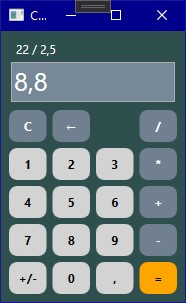
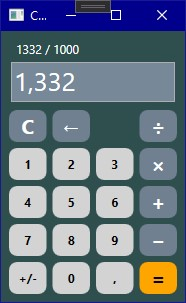
Enchance visual, add screen

diff --git a/TWCalculator/Views/MainWindow.xaml b/TWCalculator/Views/MainWindow.xaml
@@ -15,8 +15,8 @@
         MaxHeight="310"
         Background="DarkSlateGray">
     
-    <Window.Resources> <!-->Adopted solution</!-->
-        <Style x:Key="RoundCorner1" TargetType="{x:Type Button}">
+    <Window.Resources> <!-- Adopted solution -->
+        <Style x:Key="RoundCorner1" TargetType="{x:Type Button}"> <!-- Digits -->
             <Setter Property="HorizontalContentAlignment" Value="Center"/>
             <Setter Property="VerticalContentAlignment" Value="Center"/>
             <Setter Property="Padding" Value="1"/>
@@ -71,13 +71,15 @@
                 </Setter.Value>
             </Setter>
         </Style>
-        <Style x:Key="RoundCorner0" TargetType="{x:Type Button}">
+        <Style x:Key="RoundCorner0" TargetType="{x:Type Button}"> <!-- Operations -->
             <Setter Property="HorizontalContentAlignment" Value="Center"/>
             <Setter Property="VerticalContentAlignment" Value="Center"/>
             <Setter Property="Padding" Value="1"/>
             <Setter Property="Foreground" Value="White"/>
             <Setter Property="Height" Value="32"/>
             <Setter Property="Margin" Value="3,3,3,3"/>
+            <Setter Property="FontSize" Value="20"/>
+            <Setter Property="FontWeight" Value="ExtraBold"/>
             <Setter Property="Template">
                 <Setter.Value>
                     <ControlTemplate TargetType="{x:Type Button}">
@@ -132,9 +134,11 @@
             <Setter Property="Padding" Value="1"/>
             <Setter Property="Height" Value="32"/>
             <Setter Property="Margin" Value="3,3,3,3"/>
+            <Setter Property="FontSize" Value="20"/>
+            <Setter Property="FontWeight" Value="ExtraBold"/>
             <Setter Property="Template">
                 <Setter.Value>
-                    <ControlTemplate TargetType="{x:Type Button}">
+                    <ControlTemplate TargetType="{x:Type Button}"> <!-- Result -->
                         <Grid x:Name="grid">
                             <Border x:Name="border" CornerRadius="8" BorderBrush="Black" BorderThickness="0">
                                 <Border.Background>
@@ -204,12 +208,12 @@
             <!--Row0-->
             <Button Grid.Column="0" Grid.Row="0" Content="C" Name="btClear" Click="btClear_Click" Style="{StaticResource RoundCorner0}"/>
             <Button Grid.Column="1" Grid.Row="0" Content="←" Name="btBackspace" Click="btBackspace_Click" Style="{StaticResource RoundCorner0}"/>
-            <Button Grid.Column="3" Grid.Row="0" Content="/" Name="btDiv" Click="btDiv_Click" Style="{StaticResource RoundCorner0}"/>
+            <Button Grid.Column="3" Grid.Row="0" Content="÷" Name="btDiv" Click="btDiv_Click" Style="{StaticResource RoundCorner0}"/>
             <!--Row1-->
             <Button Grid.Column="0" Grid.Row="1" Content="1" Name="bt1" Click="bt1_Click" Style="{StaticResource RoundCorner1}"/>
             <Button Grid.Column="1" Grid.Row="1" Content="2" Name="bt2" Click="bt2_Click" Style="{StaticResource RoundCorner1}"/>
             <Button Grid.Column="2" Grid.Row="1" Content="3" Name="bt3" Click="bt3_Click" Style="{StaticResource RoundCorner1}"/>
-            <Button Grid.Column="3" Grid.Row="1" Content="*" Name="btMult" Click="btMult_Click" Style="{StaticResource RoundCorner0}"/>
+            <Button Grid.Column="3" Grid.Row="1" Content="×" Name="btMult" Click="btMult_Click" Style="{StaticResource RoundCorner0}"/>
             <!--Row2-->
             <Button Grid.Column="0" Grid.Row="2" Content="4" Name="bt4" Click="bt4_Click" Style="{StaticResource RoundCorner1}"/>
             <Button Grid.Column="1" Grid.Row="2" Content="5" Name="bt5" Click="bt5_Click" Style="{StaticResource RoundCorner1}"/>
@@ -219,7 +223,7 @@
             <Button Grid.Column="0" Grid.Row="3" Content="7" Name="bt7" Click="bt7_Click" Style="{StaticResource RoundCorner1}"/>
             <Button Grid.Column="1" Grid.Row="3" Content="8" Name="bt8" Click="bt8_Click" Style="{StaticResource RoundCorner1}"/>
             <Button Grid.Column="2" Grid.Row="3" Content="9" Name="bt9" Click="bt9_Click" Style="{StaticResource RoundCorner1}"/>
-            <Button Grid.Column="3" Grid.Row="3" Content="-" Name="btDim" Click="btDim_Click" Style="{StaticResource RoundCorner0}"/>
+            <Button Grid.Column="3" Grid.Row="3" Content="−" Name="btDim" Click="btDim_Click" Style="{StaticResource RoundCorner0}"/>
             <!--Row4-->
             <Button Grid.Column="0" Grid.Row="4" Content="+/-" Name="btInverse" Click="btInverse_Click" Style="{StaticResource RoundCorner1}"/>
             <Button Grid.Column="1" Grid.Row="4" Content="0" Name="bt0" Click="bt0_Click" Style="{StaticResource RoundCorner1}"/>
